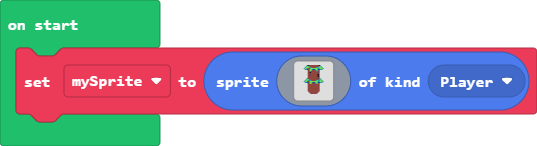
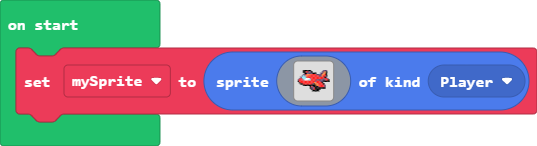
Update main.blocks, main.ts

Changed region(s): [[0.5363, 0.4384, 0.6257, 0.6575]]

diff --git a/main.ts b/main.ts
@@ -1,34 +1,18 @@
 let mySprite = sprites.create(img`
-    .....6feeeeeeeeeef6.....
-    ....6776eeeeeeeee676....
-    ...6777666eeee6667776...
-    ..6776ee67777777667776..
-    ...668ee7768867788666...
-    ......ee77eeee67ee......
-    ......ee6eeeeee6ce......
-    ......eefeeeeeeece......
-    ......eeceeeeeeece......
-    ......eeceeeeeeefe......
-    ......eeceeeeeeefe......
-    ......eeeeeeeeeefe......
-    ......eeeeeeeeeece......
-    .....6eeeeeeeeeece6.....
-    ....6776eeeeeeeee676....
-    ...6776666eeee6766776...
-    ..6776ee77777777667776..
-    ...668ce7768867788666...
-    ......ce77eeee67ee......
-    ......eeeeeeeeeeee......
-    ......eeeeeeeeeeee......
-    ......eeeeeeeeeeee......
-    ......eeeeeeeeeeee......
-    ......eeeeeeeeeeee......
-    ......eeeeeeeeeeee......
-    ......eeeeeeeeeeee......
-    ......beeeeeeeeeeb......
-    .......beeeeeeeeb.......
-    ........beeeeeeb........
-    ........................
-    ........................
-    ........................
+    ....ffffff.........ccc..
+    ....ff22ccf.......cc4f..
+    .....ffccccfff...cc44f..
+    ....cc24442222cccc442f..
+    ...c9b4422222222cc422f..
+    ..c999b2222222222222fc..
+    .c2b99111b222222222c22c.
+    c222b111992222ccccccc22f
+    f222222222222c222ccfffff
+    .f2222222222442222f.....
+    ..ff2222222cf442222f....
+    ....ffffffffff442222c...
+    .........f2cfffc2222c...
+    .........fcc2ffffffff...
+    ..........fc2ffff.......
+    ...........fffff........
     `, SpriteKind.Player)
